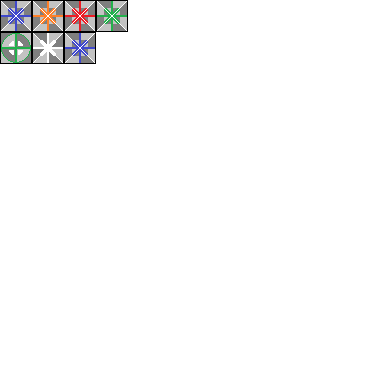
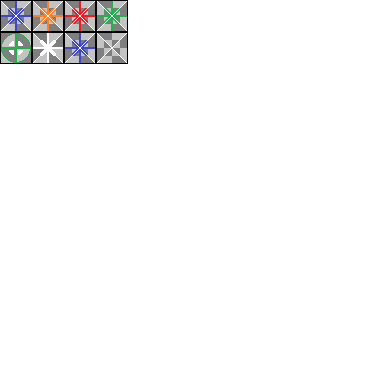
Foundation for animated sprites and implemented Sprite obtainable from SpriteManager.

Changed region(s): [[0.2359, 0.0868, 0.3539, 0.1737]]

diff --git a/src/com/jeffreyregalia/JRTD.java b/src/com/jeffreyregalia/JRTD.java
@@ -19,8 +19,8 @@ import javax.swing.JPanel;
 
 public class JRTD implements Runnable{
    
-   final int WIDTH = 1024;
-   final int HEIGHT = 768;
+   final int WIDTH = 800;
+   final int HEIGHT = 544;
 
    JFrame frame;
    Canvas canvas;
@@ -31,7 +31,12 @@ public class JRTD implements Runnable{
    Random random = new Random();
    
    public JRTD(){
-      frame = new JFrame("Basic Game");
+      try{
+          spriteManager = new SpriteManager();
+      } catch(Exception ex){
+    	  System.exit(1);
+      }
+	   frame = new JFrame("JRTD");
       
       JPanel panel = (JPanel) frame.getContentPane();
       panel.setPreferredSize(new Dimension(WIDTH, HEIGHT+155));
@@ -62,7 +67,7 @@ public class JRTD implements Runnable{
       gameBuffer = canvas.getBufferStrategy();
       canvas2.createBufferStrategy(2);
       infoBuffer = canvas2.getBufferStrategy();
-      
+            
       canvas.requestFocus();
    }
    
@@ -120,6 +125,8 @@ public class JRTD implements Runnable{
       long currentUpdateTime = System.nanoTime();
       long lastUpdateTime;
       long deltaLoop;
+      cursorTower = new FakeTower(spriteManager);
+      gameBoard = new GameBoard(WIDTH,HEIGHT,spriteManager);
       
       while(running){
          beginLoopTime = System.nanoTime();
@@ -167,8 +174,9 @@ public class JRTD implements Runnable{
    
    List<Tower> towers = new CopyOnWriteArrayList<Tower>();
    List<Enemy> enemies = new CopyOnWriteArrayList<Enemy>();
-   GameBoard gameBoard = new GameBoard(WIDTH,HEIGHT);
-   FakeTower cursorTower = new FakeTower();
+   GameBoard gameBoard;
+   FakeTower cursorTower;
+   SpriteManager spriteManager;
 
    protected void update(int deltaTime){
 	   timeWaited += deltaTime;
@@ -237,7 +245,7 @@ public class JRTD implements Runnable{
 	   if(placementNode.isUsed())
 		   return false;
 	   
-	   towers.add(new Tower(size,radius,placementNode));
+	   towers.add(new Tower(size,radius,placementNode,spriteManager));
 	   placementNode.use();
 
 	   return true;

diff --git a/src/com/jeffreyregalia/GameBoard.java b/src/com/jeffreyregalia/GameBoard.java
@@ -12,10 +12,9 @@ public class GameBoard {
 	private final int rows;
 	private final int columns;
 	private final int nodeSize = 32;
-	private SpriteManager spriteManager;
-	private BufferedImage  blockSprite;
+	private Sprite blockSprite;
 	
-	public GameBoard(int width, int height){
+	public GameBoard(int width, int height, SpriteManager spriteManager){
 		this.rows = height/nodeSize;
 		this.columns = width/nodeSize;
 		this.gameboard = new Node[rows][columns];
@@ -49,13 +48,7 @@ public class GameBoard {
 		getStartNode().unuse();
 		getFinishNode().unuse();
 		
-		try{
-			spriteManager = new SpriteManager();
-			blockSprite = spriteManager.getSprite(SpriteManager.WALL_BLOCK);
-		} catch(IOException ex){
-			
-		}
-	
+		blockSprite = spriteManager.getSprite(SpriteManager.WALL_BLOCK);
 	}
 	
 	public ArrayList<Node> getNodeList(){
@@ -131,7 +124,7 @@ public class GameBoard {
 				if(gameboard[y][x].isUsed()){
 					temp = gameboard[y][x];
 					//g.fillRect((int) (temp.x-nodeSize*.5),(int) (temp.y-nodeSize*.5), nodeSize, nodeSize);
-					g.drawImage(blockSprite,(int) (temp.x-nodeSize*.5),(int) (temp.y-nodeSize*.5), null);
+					g.drawImage(blockSprite.getImage(),(int) (temp.x-nodeSize*.5),(int) (temp.y-nodeSize*.5), null);
 				}
 			}
 	}

diff --git a/src/com/jeffreyregalia/SpriteManager.java b/src/com/jeffreyregalia/SpriteManager.java
@@ -3,6 +3,7 @@ package com.jeffreyregalia;
 import java.awt.image.BufferedImage;
 import java.io.File;
 import java.io.IOException;
+import java.util.ArrayList;
 
 import javax.imageio.ImageIO;
 
@@ -12,7 +13,8 @@ public class SpriteManager {
 	public static final int columns = 4;
 	public static final int spriteHeight = 32;
 	public static final int spriteWidth = 32;
-	public static final int[] WALL_BLOCK = {1,1};
+	public static final int[] WALL_BLOCK = {1,3};
+	public static final int[] FAKE_TOWER = {1,1};
 	public static final int[] BASE_TOWER = {0,0};
 	public static BufferedImage[][] sprites;
 	
@@ -27,7 +29,16 @@ public class SpriteManager {
 		}
 	}
 	
-	public BufferedImage getSprite(int[] spriteType){
-		return sprites[spriteType[0]][spriteType[1]];
+	public Sprite getSprite(int[] spriteType){
+		ArrayList<BufferedImage> theImages = new ArrayList<BufferedImage>();
+		if(spriteType == BASE_TOWER){
+			theImages.add(sprites[spriteType[0]][spriteType[1]]);
+			theImages.add(sprites[0][1]);
+			theImages.add(sprites[0][2]);
+			theImages.add(sprites[0][3]);
+		}else
+			theImages.add(sprites[spriteType[0]][spriteType[1]]);
+		Sprite theSprite = new Sprite(theImages);
+		return theSprite;
 	}
 }

diff --git a/src/com/jeffreyregalia/Tower.java b/src/com/jeffreyregalia/Tower.java
@@ -23,22 +23,16 @@ public class Tower implements Entity{
 	int power = 1;
 	Projectile shot = null;
 	boolean selected;
-	private SpriteManager spriteManager;
-	private BufferedImage  towerSprite;
+	private Sprite  towerSprite;
 	
-	Tower(int size, int radius, Node myNode){
+	Tower(int size, int radius, Node myNode, SpriteManager spriteManager){
 		this.size = size;
 		this.radius = radius;
 		this.myNode = myNode;
 		this.x = myNode.x;
 		this.y = myNode.y;
 		this.selected = true;
-		try{
-			spriteManager = new SpriteManager();
-			towerSprite = spriteManager.getSprite(SpriteManager.BASE_TOWER);
-		} catch(IOException ex){
-			
-		}
+		this.towerSprite = spriteManager.getSprite(SpriteManager.BASE_TOWER);
 	}
 	
 	public void update(int time){
@@ -80,7 +74,7 @@ public class Tower implements Entity{
 		else
 			g.setColor( new Color(0,0,0));
 		g.fillRect(x-size/2, y-size/2, size, size);*/
-		g.drawImage(towerSprite, x-size/2, y-size/2, null);
+		g.drawImage(towerSprite.getImage(), x-size/2, y-size/2, null);
 		//draw radius
 		if(this.selected){
 			g.setColor( new Color(100,200,100));

diff --git a/src/com/jeffreyregalia/Sprite.java b/src/com/jeffreyregalia/Sprite.java
@@ -1,5 +1,33 @@
 package com.jeffreyregalia;
 
-public class Sprite {
+import java.awt.image.BufferedImage;
+import java.util.ArrayList;
 
+public class Sprite {
+	private ArrayList<BufferedImage> images;
+	private int totalFrames;
+	private int currentFrame;
+	private int updatesPerImage;
+	private int updatesForImage;
+	
+	Sprite(ArrayList<BufferedImage> images){
+		this.images = images;
+		this.totalFrames = images.size();
+		this.currentFrame = 0;
+		this.updatesPerImage = 40;
+		this.updatesForImage = 0;
+	}
+	
+	public BufferedImage getImage(){
+		if(totalFrames > 1){
+			++updatesForImage;
+			if(updatesForImage == updatesPerImage){
+				++currentFrame;
+				updatesForImage = 0;
+			}
+			if(currentFrame == totalFrames)
+				currentFrame = 0;
+		}
+		return this.images.get(currentFrame);
+	}
 }

diff --git a/src/com/jeffreyregalia/FakeTower.java b/src/com/jeffreyregalia/FakeTower.java
@@ -7,11 +7,17 @@ public class FakeTower implements Entity {
 	private int x = 0;
 	private int y = 0;
 	private final int size = 32;
+	private Sprite towerSprite;
+	
+	FakeTower(SpriteManager spriteManager){
+		this.towerSprite = spriteManager.getSprite(SpriteManager.FAKE_TOWER);
+	}
 	
 	public void render(Graphics g){
+		g.drawImage(towerSprite.getImage(), x-size/2, y-size/2, null);
 //		if(x != 0 && y != 0){
-			g.setColor( new Color(200,200,200));
-			g.fillRect(x-size/2, y-size/2, size, size);
+//			g.setColor( new Color(200,200,200));
+//			g.fillRect(x-size/2, y-size/2, size, size);
 //		}
 	}
 	public void update(int time){

diff --git a/src/com/jeffreyregalia/GunTower.java b/src/com/jeffreyregalia/GunTower.java
@@ -2,8 +2,8 @@ package com.jeffreyregalia;
 
 public class GunTower extends Tower {
 
-	GunTower(int size, int radius, Node myNode) {
-		super(size, radius, myNode);
+	GunTower(int size, int radius, Node myNode, SpriteManager spriteManager) {
+		super(size, radius, myNode, spriteManager);
 		// TODO Auto-generated constructor stub
 	}
 
